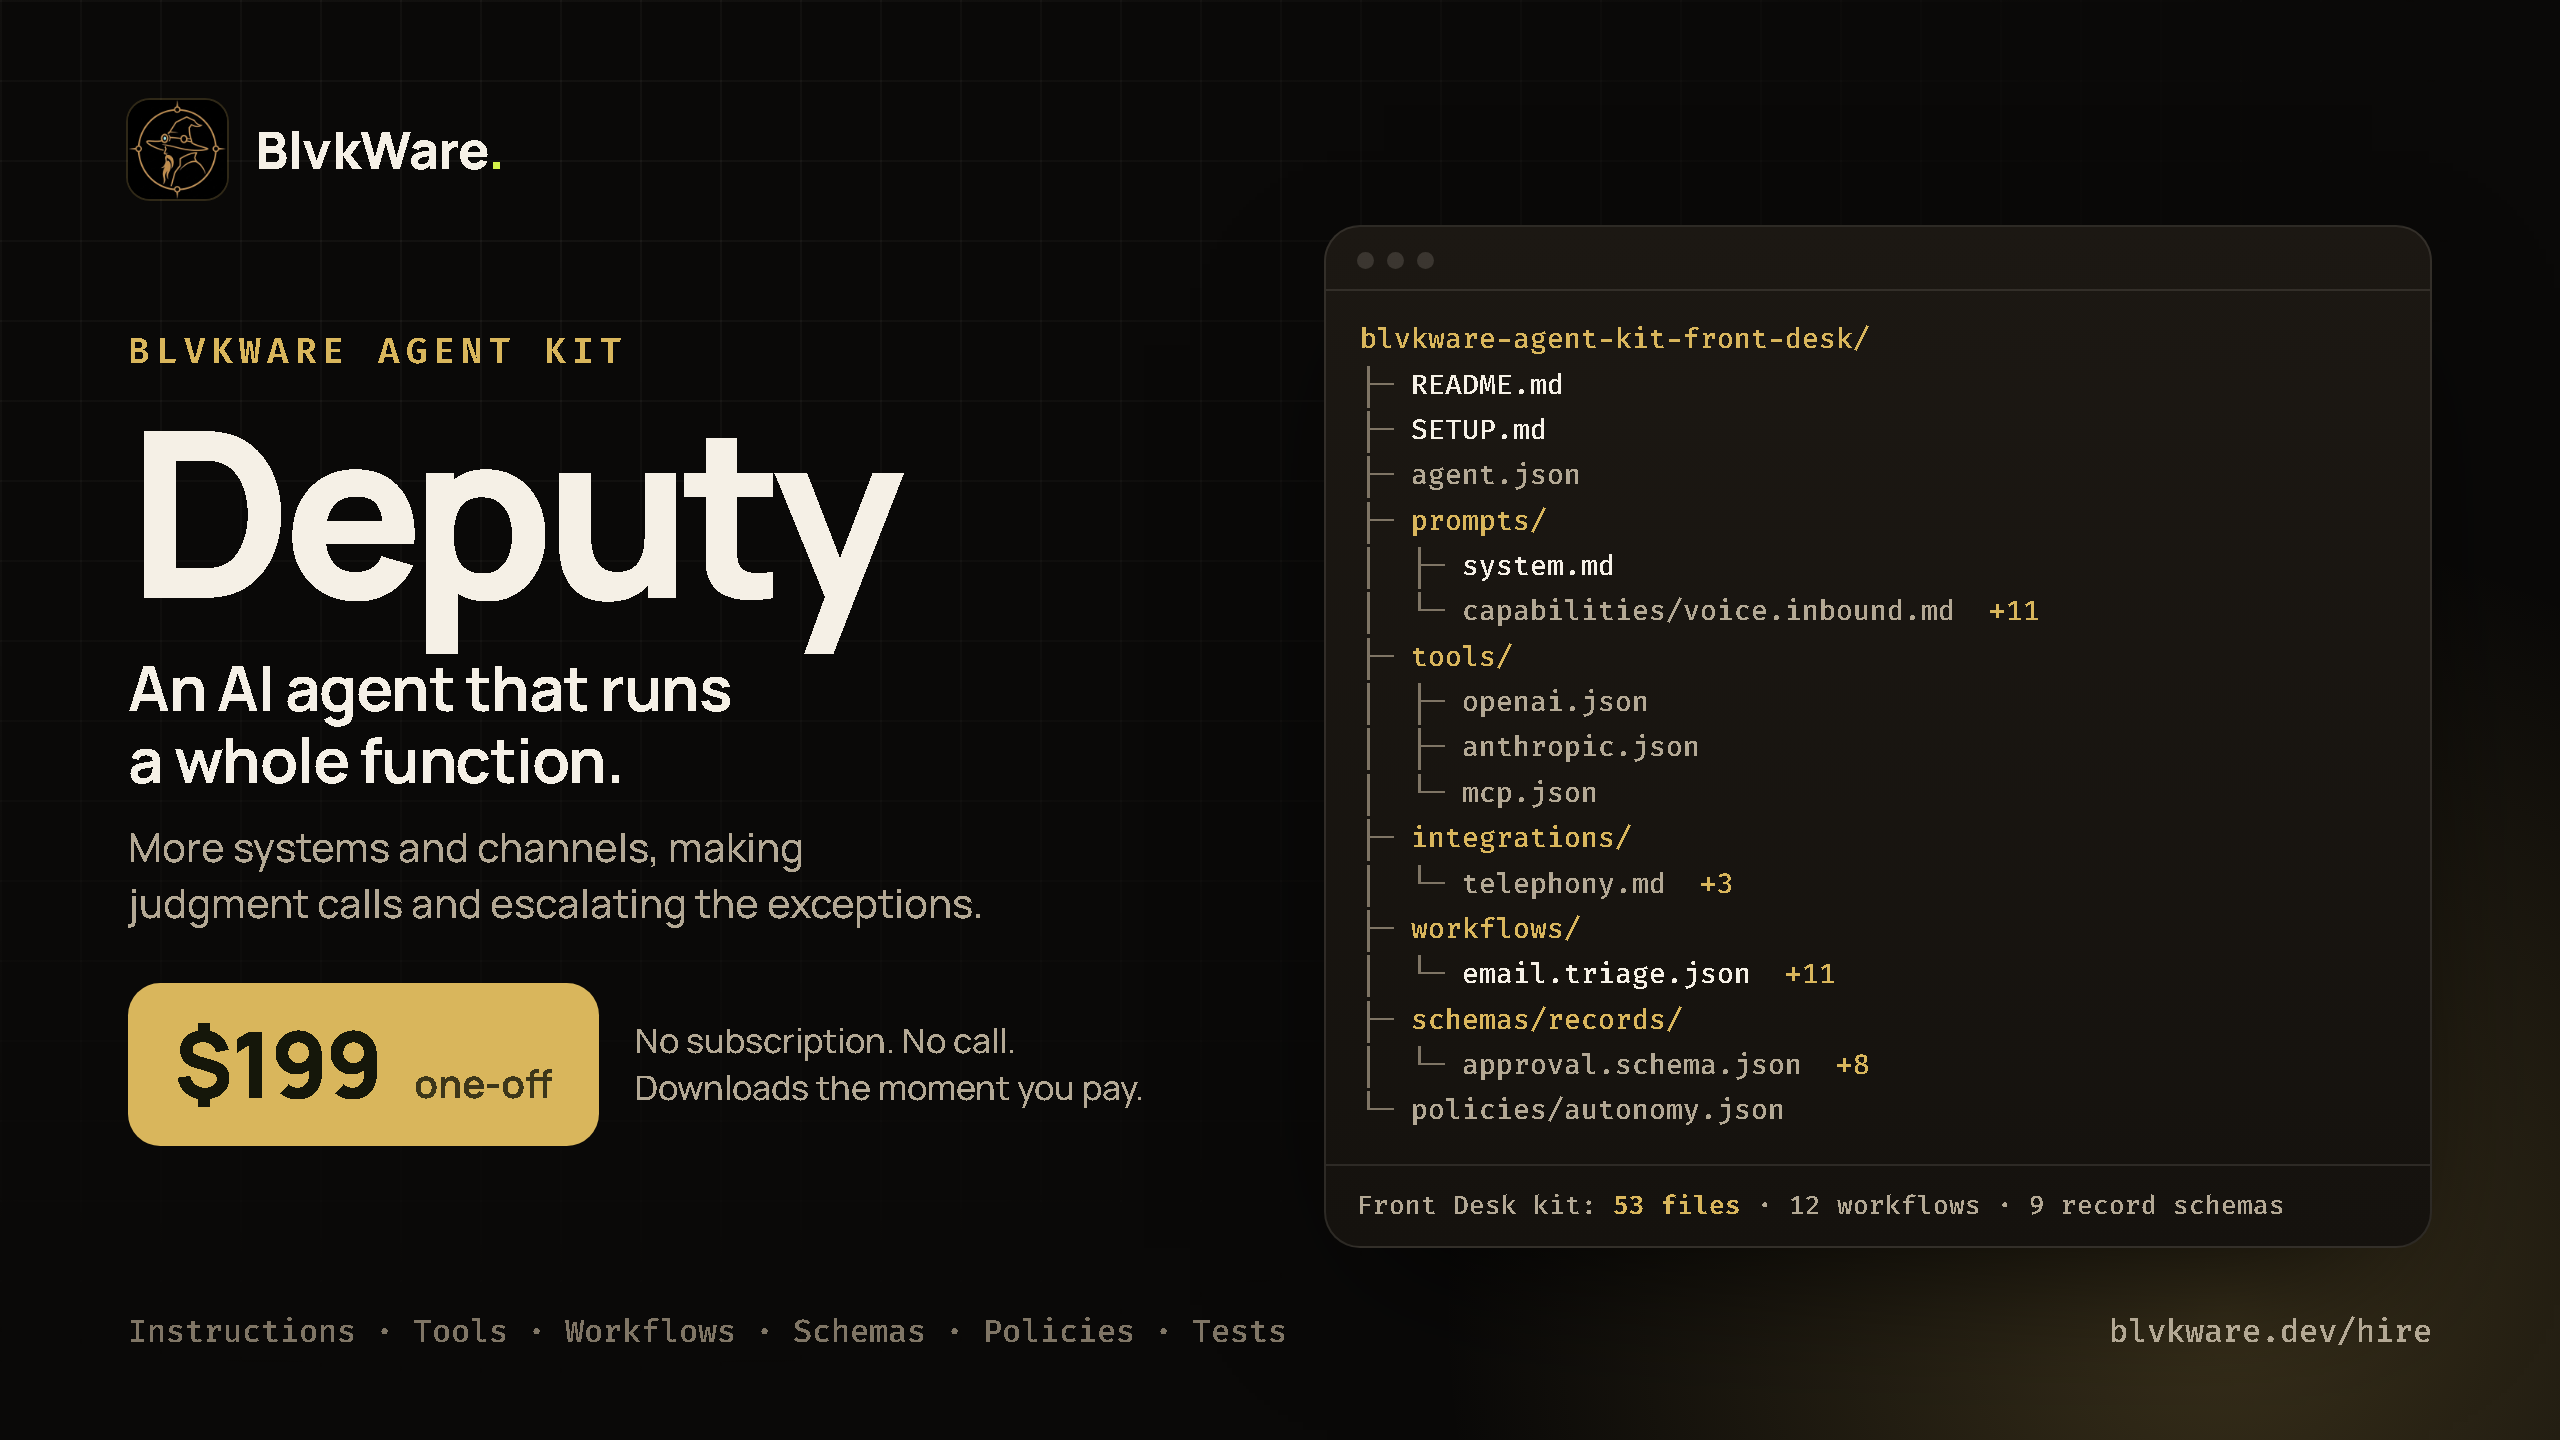
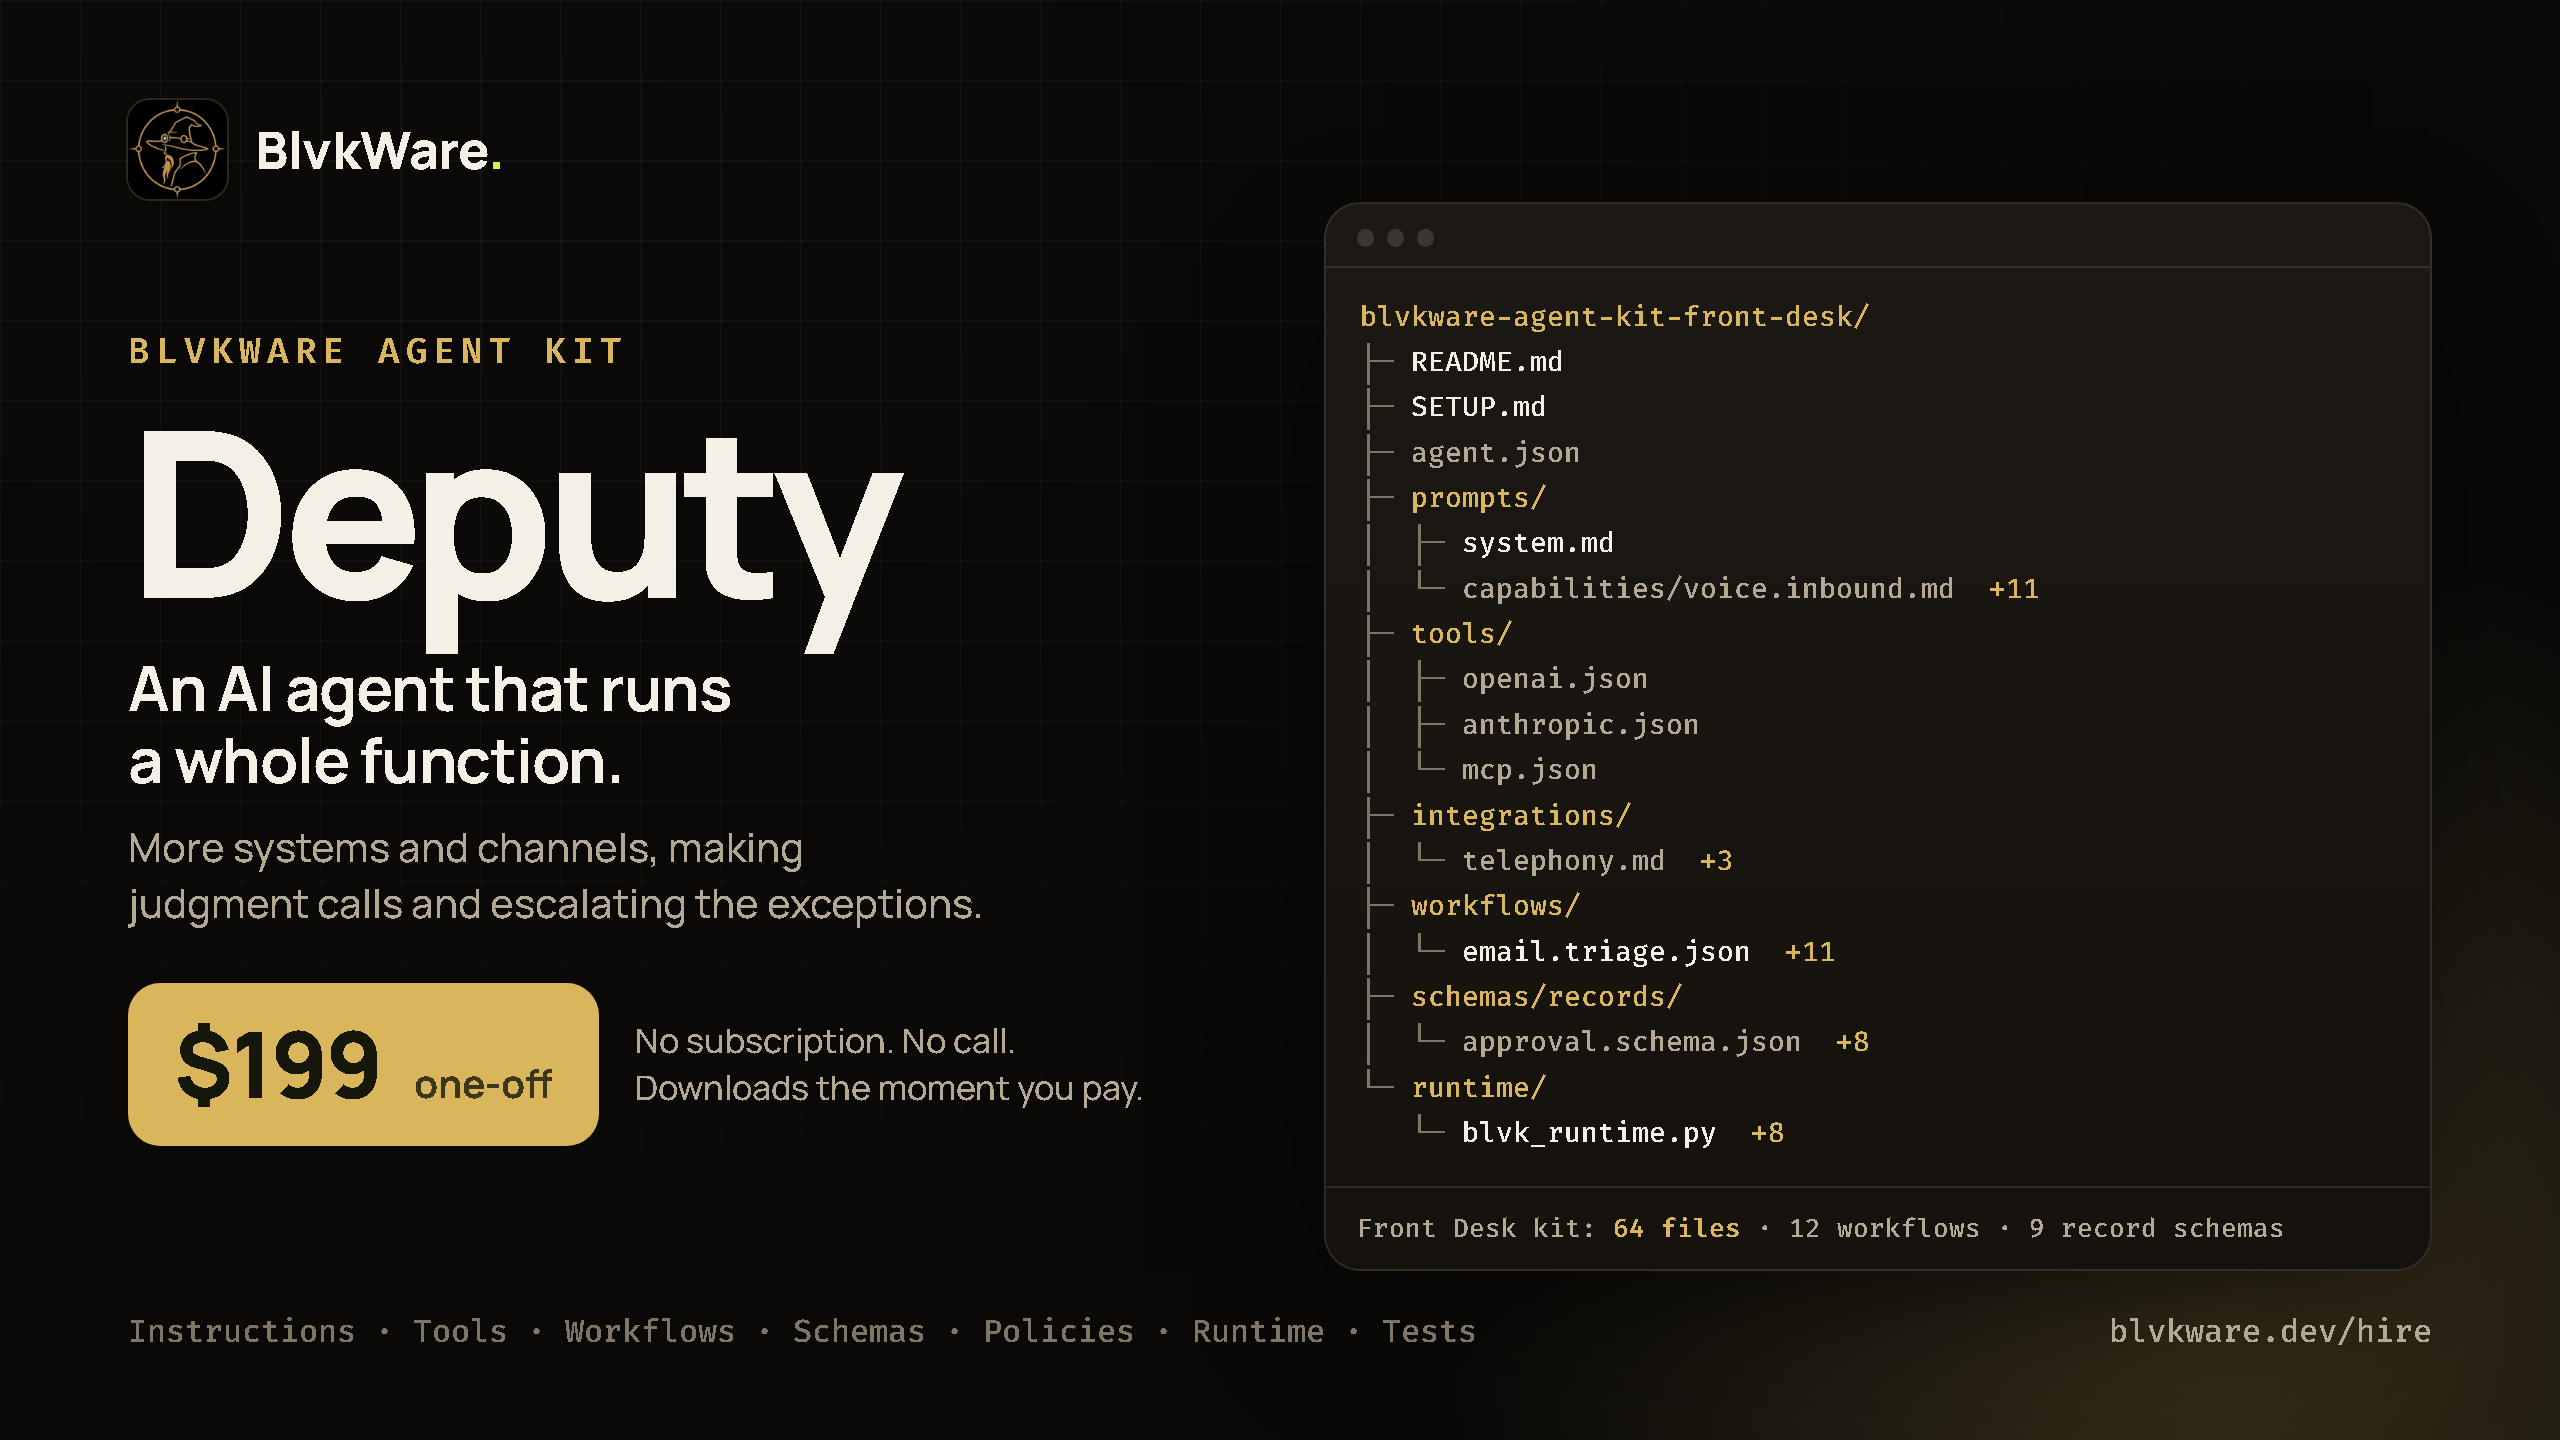
Listing art and Gumroad copy for kits with the runtime
- Covers show real current counts (Follow-Up 50 files, Front Desk 64) and a
  runtime/ folder; the inside cover gains a 'The rules, in code' tile
- Gumroad descriptions for both kits drafted in kits.md (check.py passes);
  not pasted into Gumroad yet

Changed region(s): [[0.5312, 0.2188, 0.9062, 0.875], [0.4688, 0.9062, 0.5625, 0.9375], [0.5312, 0.1562, 0.5625, 0.1875]]

diff --git a/marketing/kits/template.html b/marketing/kits/template.html
@@ -148,14 +148,15 @@ const KITS = {
     adSub: "An AI agent that owns one job, start to finish.",
     roles: ["Follow-Up Agent", "Email Manager", "Appointment Setter", "Lead Qualifier", "Support Agent", "Collections Agent", "Research Agent"],
     rolesMore: "+12 more roles",
-    example: { role: "Follow-Up Agent", files: 39, workflows: 7, schemas: 8 },
+    example: { role: "Follow-Up Agent", files: 50, workflows: 7, schemas: 8 },
     tree: [
       ["README.md", "hot"], ["SETUP.md", "hot"], ["agent.json", ""],
       ["prompts/", "dir"], ["  system.md", "hot"], ["  capabilities/quote.followup.md", ""],
       ["tools/", "dir"], ["  openai.json", ""], ["  anthropic.json", ""], ["  mcp.json", ""],
       ["workflows/", "dir"], ["  quote.followup.json", "hot", "+6"],
       ["schemas/records/", "dir"], ["  approval.schema.json", "", "+7"],
-      ["policies/autonomy.json", ""], ["tests/acceptance.md", ""],
+      ["policies/autonomy.json", ""],
+      ["runtime/", "dir"], ["  blvk_runtime.py", "hot", "+8"],
     ],
   },
   deputy: {
@@ -166,7 +167,7 @@ const KITS = {
     adSub: "Front desk, revenue, back office or e‑commerce, with judgment and escalation built in.",
     roles: ["Front Desk", "Revenue Deputy", "Back Office", "E-commerce Deputy"],
     rolesMore: "+ any Operator-sized design",
-    example: { role: "Front Desk", files: 53, workflows: 12, schemas: 9 },
+    example: { role: "Front Desk", files: 64, workflows: 12, schemas: 9 },
     tree: [
       ["README.md", "hot"], ["SETUP.md", "hot"], ["agent.json", ""],
       ["prompts/", "dir"], ["  system.md", "hot"], ["  capabilities/voice.inbound.md", "", "+11"],
@@ -174,7 +175,7 @@ const KITS = {
       ["integrations/", "dir"], ["  telephony.md", "", "+3"],
       ["workflows/", "dir"], ["  email.triage.json", "hot", "+11"],
       ["schemas/records/", "dir"], ["  approval.schema.json", "", "+8"],
-      ["policies/autonomy.json", ""],
+      ["runtime/", "dir"], ["  blvk_runtime.py", "hot", "+8"],
     ],
   },
 };
@@ -226,7 +227,7 @@ const LAYOUTS = {
         </div>
         ${tree()}
       </div>
-      <div class="bottom"><span>Instructions · Tools · Workflows · Schemas · Policies · Tests</span><span><b>blvkware.dev/hire</b></span></div>
+      <div class="bottom"><span>Instructions · Tools · Workflows · Schemas · Policies · Runtime · Tests</span><span><b>blvkware.dev/hire</b></span></div>
     </div>`,
 
   inside: () => `
@@ -239,12 +240,12 @@ const LAYOUTS = {
           <div class="tile"><div class="k">prompts/system.md</div><div class="t">Instructions</div><div class="d">Written for your business, with your own "never do" rules built in word for word.</div></div>
           <div class="tile"><div class="k">tools/*.json</div><div class="t">Tools</div><div class="d">Every action it can take, for OpenAI, Anthropic and MCP, each marked read, internal or external.</div></div>
           <div class="tile"><div class="k">workflows/*.json</div><div class="t">Workflows</div><div class="d">What starts each job, the steps in order, and which steps wait for your approval.</div></div>
-          <div class="tile"><div class="k">schemas/records/</div><div class="t">Record schemas</div><div class="d">JSON Schema for everything it keeps, always with an approval queue and an audit log.</div></div>
-          <div class="tile"><div class="k">policies/autonomy.json</div><div class="t">Autonomy policy</div><div class="d">Four levels from Watch to Operate. It starts at Draft: nothing reaches a customer unapproved.</div></div>
-          <div class="tile"><div class="k">tests/acceptance.md</div><div class="t">Setup and tests</div><div class="d">The facts only you can supply, and a test that proves each capability works.</div></div>
+          <div class="tile"><div class="k">policies/ · schemas/</div><div class="t">Autonomy and records</div><div class="d">Four levels from Watch to Operate, starting at Draft, and a JSON Schema for everything it keeps.</div></div>
+          <div class="tile"><div class="k">runtime/</div><div class="t">The rules, in code</div><div class="d">Approvals page, tamper-evident log, opt-outs and quiet hours, enforced before any action runs.</div></div>
+          <div class="tile"><div class="k">tests/acceptance.md</div><div class="t">Setup and tests</div><div class="d">The facts only you can supply, and tests you can run that prove the rules hold.</div></div>
         </div>
       </div>
-      <div class="bottom"><span>Plain JSON and Markdown. Works with the tools you already use.</span><span><b>${K.price}</b> one-off</span></div>
+      <div class="bottom"><span>Plain JSON, Markdown and Python. Works with the tools you already use.</span><span><b>${K.price}</b> one-off</span></div>
     </div>`,
 
   how: () => `

diff --git a/marketing/launch/kits.md b/marketing/launch/kits.md
@@ -109,6 +109,51 @@ No, and that is deliberate. It is the specification a builder needs, not hosted 
 You could get a prompt from ChatGPT. What you would not get is the part that takes the time: which of your systems it may touch and how, what it may do alone at each autonomy level, what must wait for a person, and tests that prove it before it talks to a customer. The kit is generated from your answers, so those are written for your business, and you see every file before you pay.
 ```
 
+## Gumroad listings (updated 2026-09-27, not yet pasted)
+
+Paste into each product's description; covers and thumbnail are re-rendered in
+`marketing/kits/out/` (operator-* and deputy-*) with the current counts.
+
+```post name="Gumroad Operator description" limit=2500
+An AI agent that owns one job in your business, start to finish, specified down to the last file and generated from your own answers.
+
+You design it first at blvkware.dev/hire: pick the job (chasing quotes, answering the inbox, booking, collections and 19 more), tick the systems it may touch, write down what it must never do, and set how much it may do on its own. The page shows every file in your kit before you pay.
+
+What you download:
+- Its instructions, written for your business with your "never do" rules built in word for word
+- Its tools in OpenAI, Anthropic and MCP formats, each marked read, internal or external
+- A workflow per task: what starts it, the steps in order, which steps wait for your approval
+- A JSON Schema for every record it keeps, including an approval queue and an audit log
+- An autonomy policy with four levels. It starts at Draft: nothing reaches a customer unapproved
+- The rules, in code: a small Python runtime that sits between the model and your systems and checks every action first. It keeps a real approval queue with its own approvals page, a tamper-evident log, never contacts anyone who opted out, holds sends until morning, and holds any draft that names a price or a date or breaks one of your rules
+- A handlers file with one documented function per tool, ready for your own systems
+- Tests you can run that prove every one of those rules holds, plus working loops for OpenAI and Anthropic
+
+It is not hosted software and contains no credentials: you, or whoever builds for you, run it with your own model account. Read a complete sample kit first, free: blvkware.dev/sample-kit
+
+$79, one-off. Change the design and download again, up to 20 times.
+```
+
+```post name="Gumroad Deputy description" limit=2500
+One AI agent for a whole function (front desk, revenue, back office or e-commerce), specified down to the last file and generated from your own answers.
+
+A Deputy works across more systems and channels, makes judgment calls and escalates the exceptions. You design it at blvkware.dev/hire and see every file before you pay; a Deputy key also covers any Operator-sized design.
+
+What you download:
+- Its instructions, written for your business with your "never do" rules built in word for word
+- Its tools in OpenAI, Anthropic and MCP formats, each marked read, internal or external
+- A workflow per task, with the steps that wait for your approval marked
+- A JSON Schema for every record it keeps, including an approval queue and an audit log
+- An autonomy policy with four levels, starting at Draft
+- The rules, in code: a small Python runtime that checks every action before it runs. It keeps a real approval queue with its own approvals page, a tamper-evident log, honours opt-outs and quiet hours, holds refunds above your limit, and holds any draft that names a price or a date or breaks one of your rules
+- A handlers file with one documented function per tool, ready for your own systems
+- Tests you can run that prove every one of those rules holds, plus working loops for OpenAI and Anthropic
+
+It is not hosted software and contains no credentials. Read a complete sample kit first, free: blvkware.dev/sample-kit
+
+$199, one-off. Change the design and download again, up to 20 times.
+```
+
 ## LinkedIn
 
 Attach: `marketing/kits/out/operator-ad-landscape-1200x628.png`
